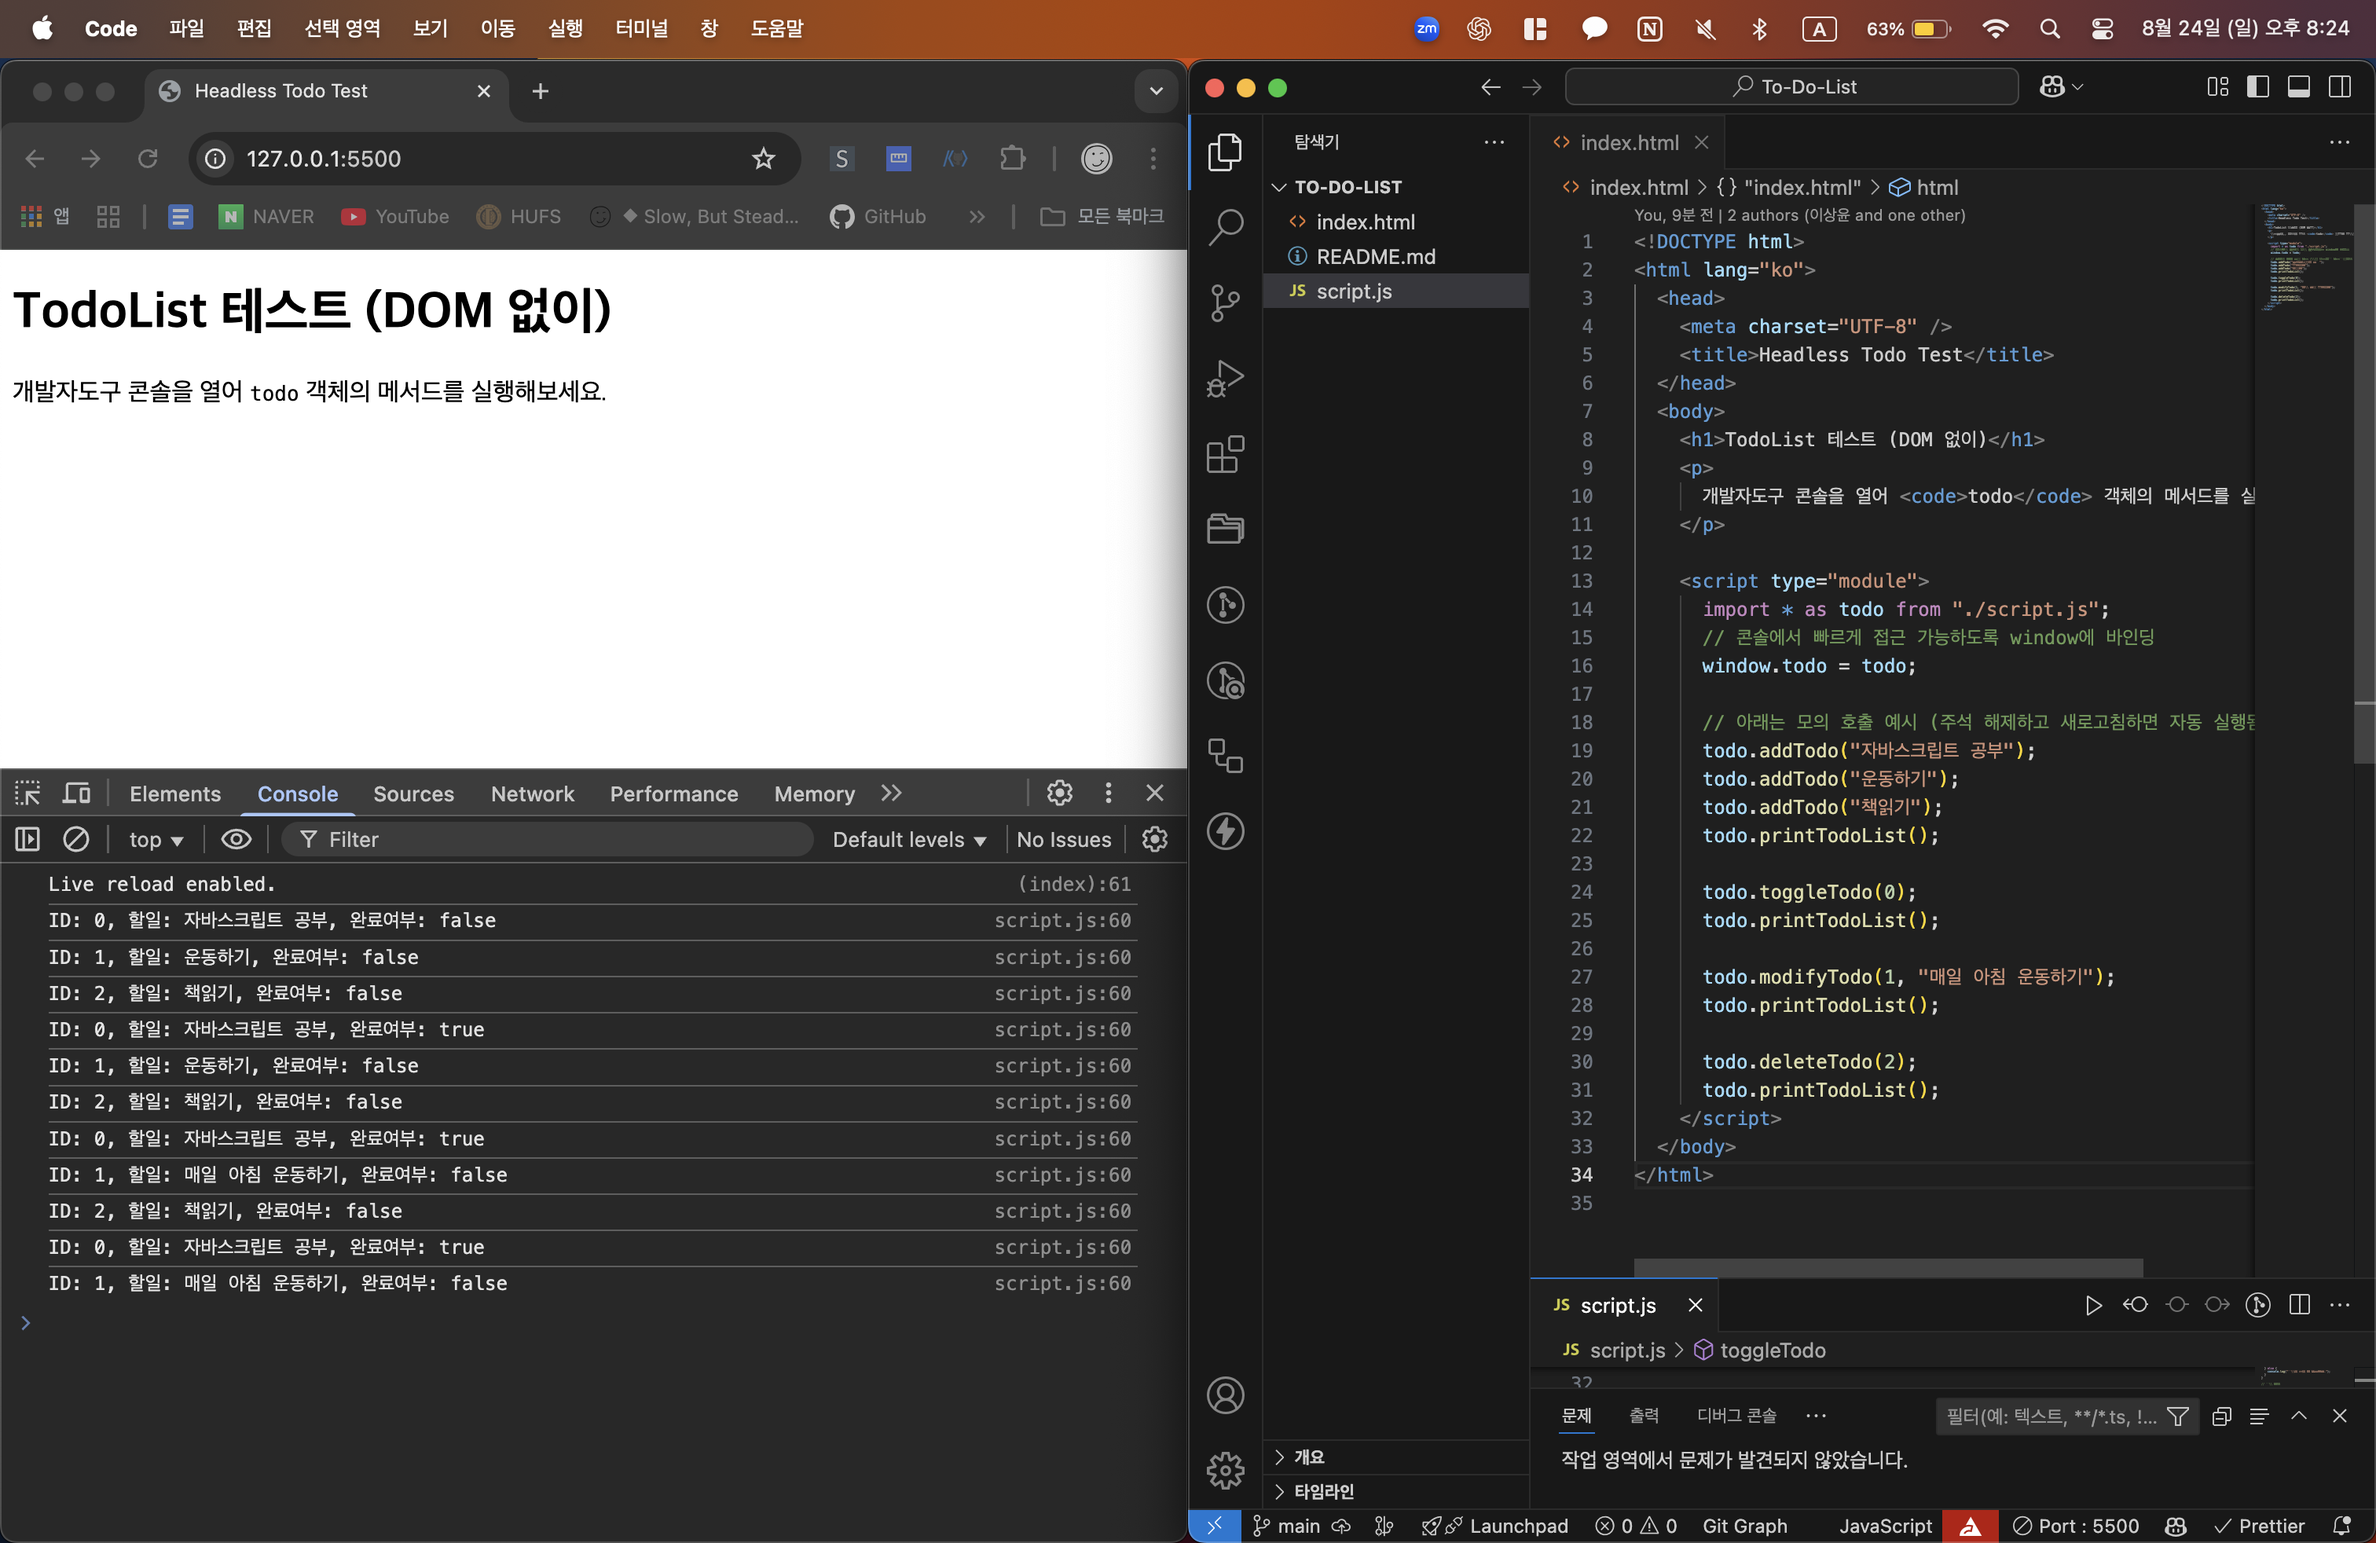
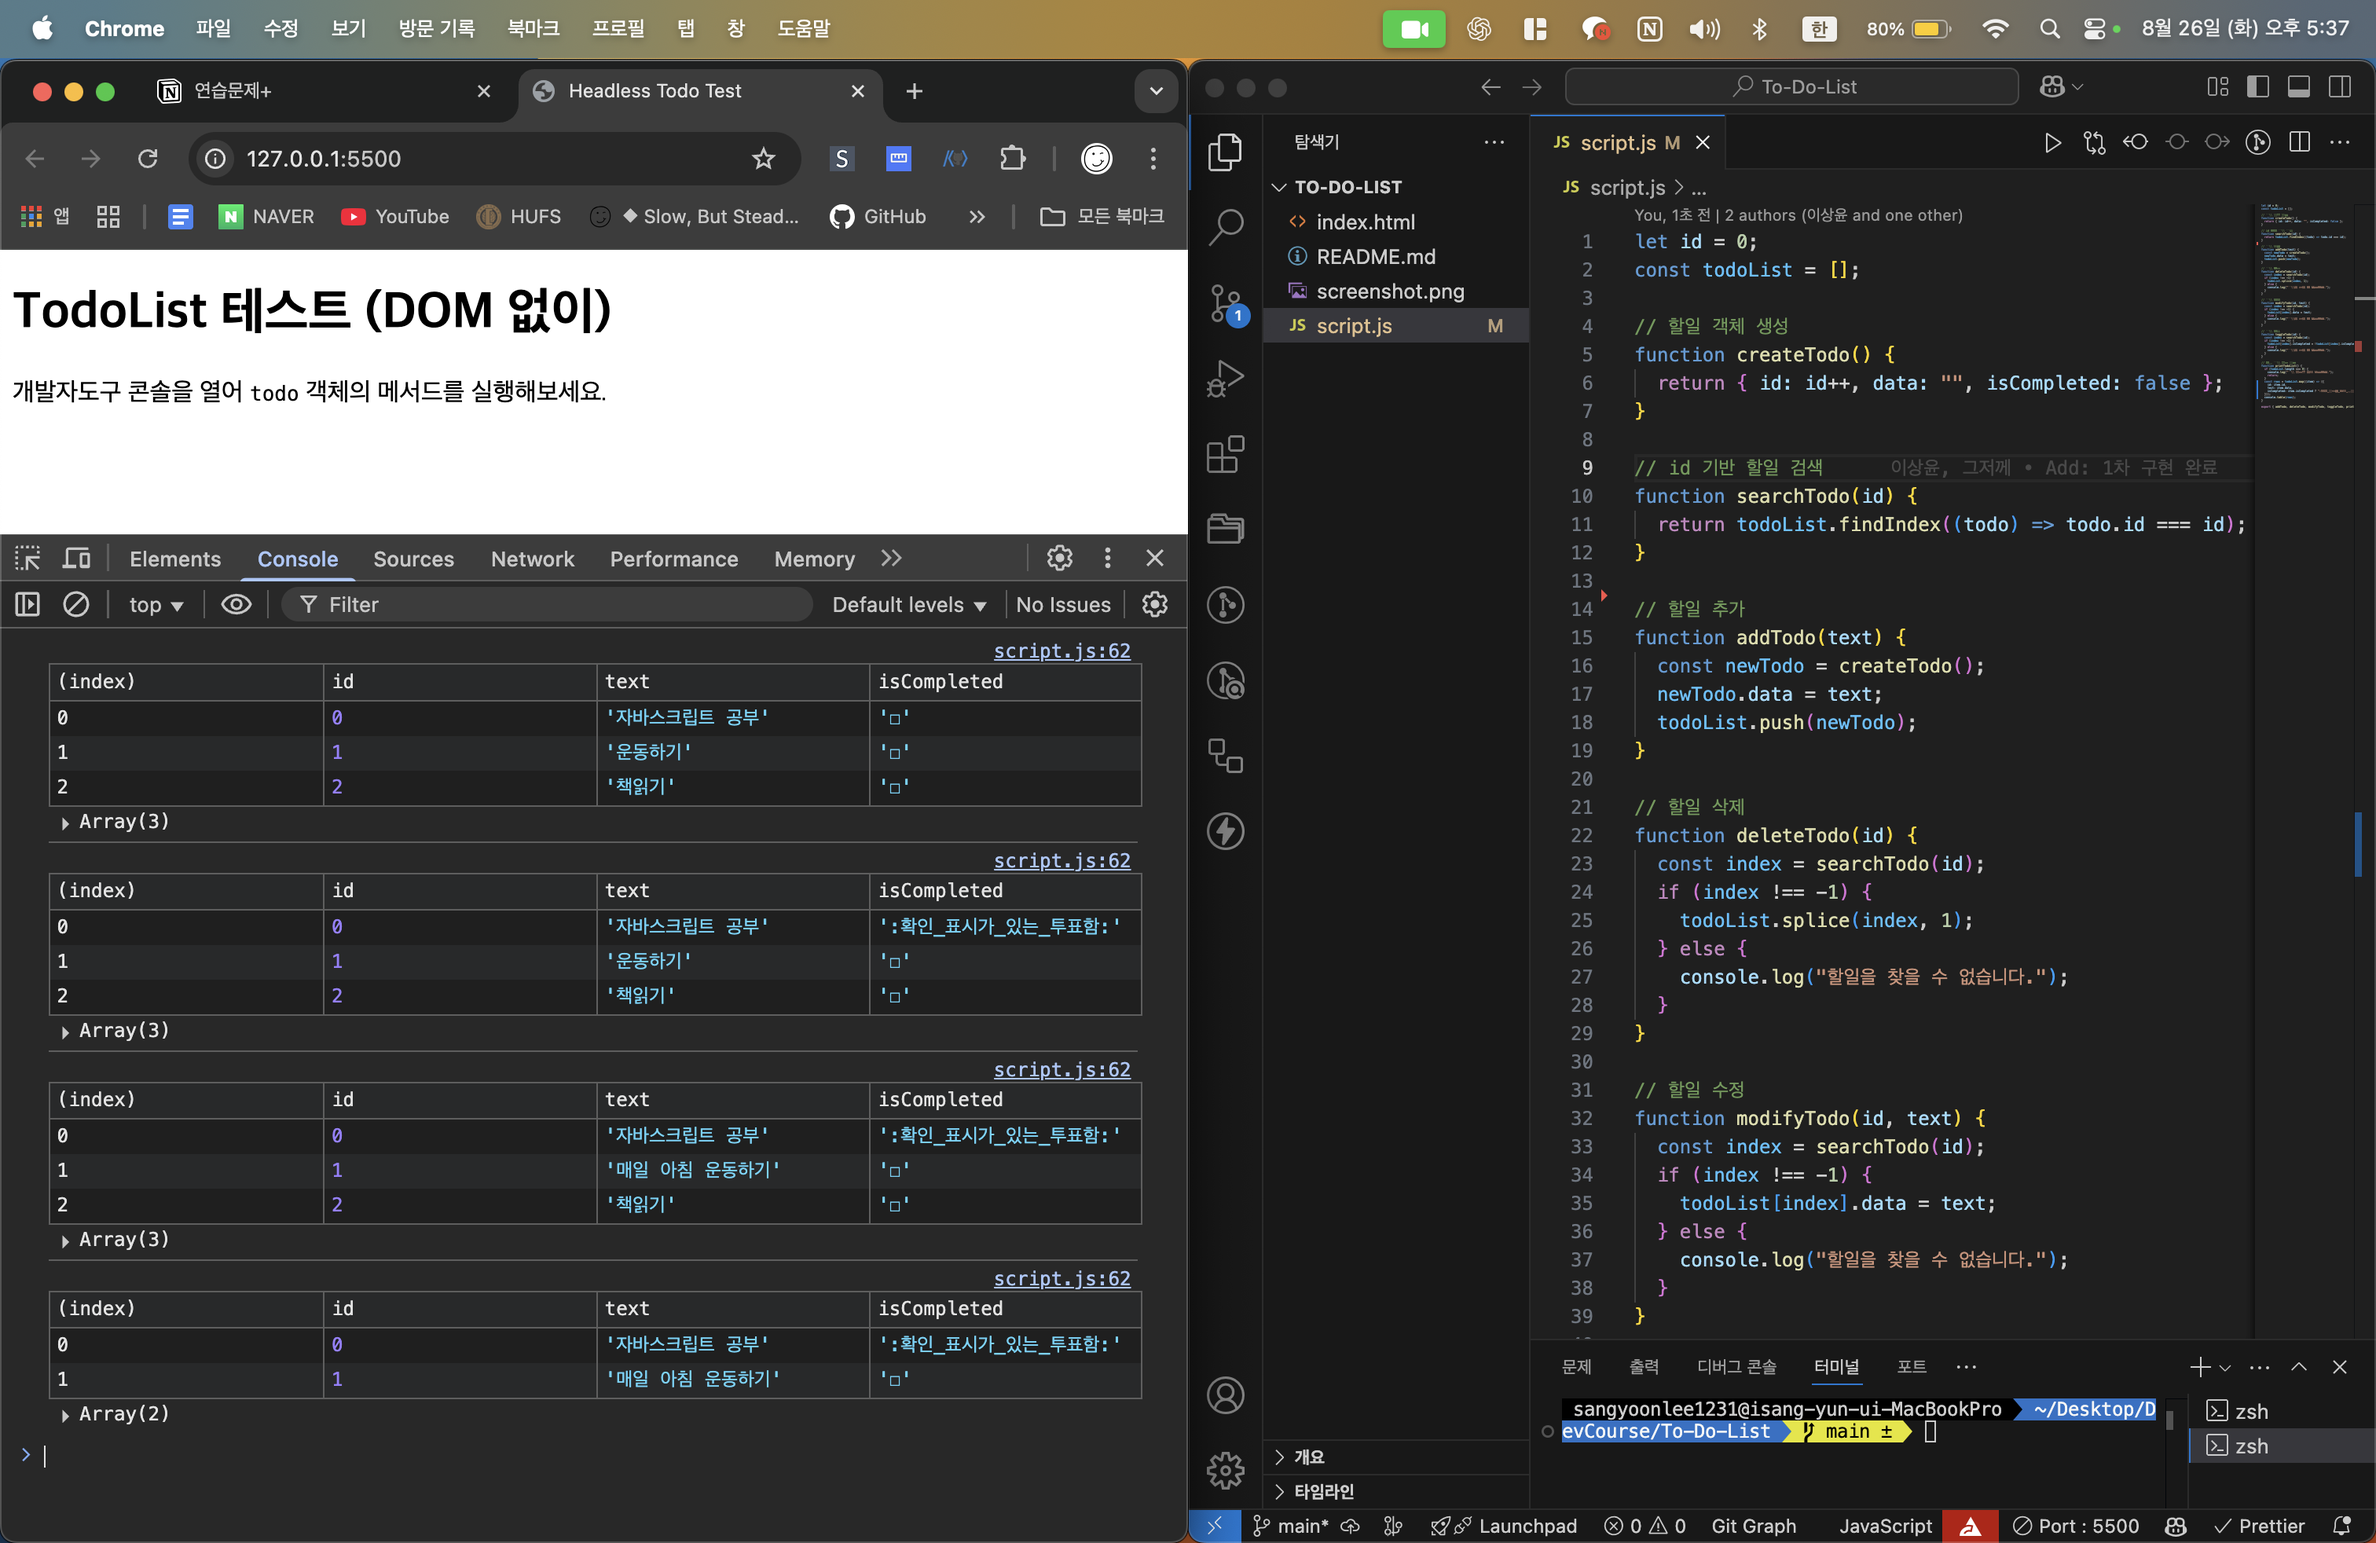
Modify: 출력 코드 수정 (팀 회의 후 반영)

diff --git a/script.js b/script.js
@@ -11,8 +11,6 @@ function searchTodo(id) {
   return todoList.findIndex((todo) => todo.id === id);
 }
 
-//
-
 // 할일 추가
 function addTodo(text) {
   const newTodo = createTodo();
@@ -56,11 +54,12 @@ function printTodoList() {
     console.log("할일 목록이 비어 있습니다.");
     return;
   }
-  todoList.forEach((todo) => {
-    console.log(
-      `ID: ${todo.id}, 할일: ${todo.data}, 완료여부: ${todo.isCompleted}`
-    );
-  });
+  const rows = todoList.map((item) => ({
+    id: item.id,
+    text: item.data,
+    isCompleted: item.isCompleted ? ":확인_표시가_있는_투표함:" : "☐",
+  }));
+  console.table(rows);
 }
 
 export { addTodo, deleteTodo, modifyTodo, toggleTodo, printTodoList };
